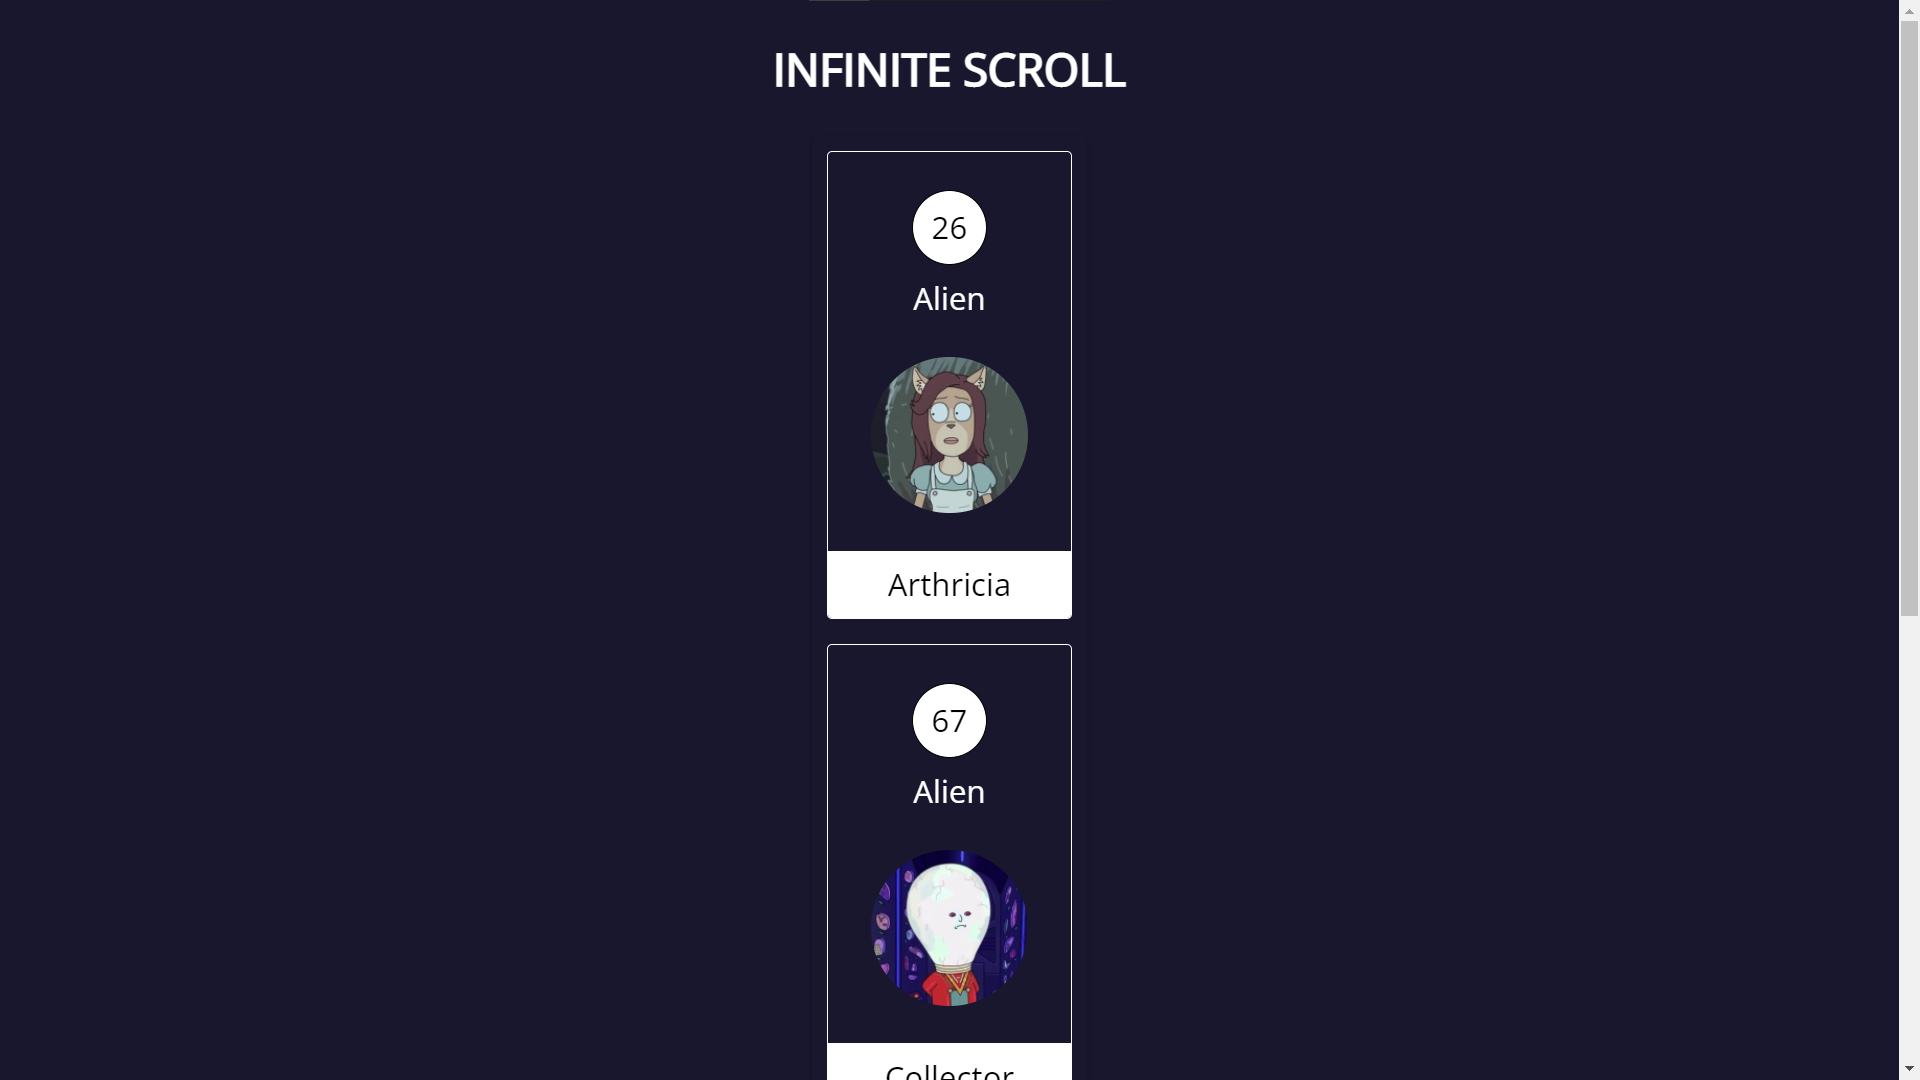
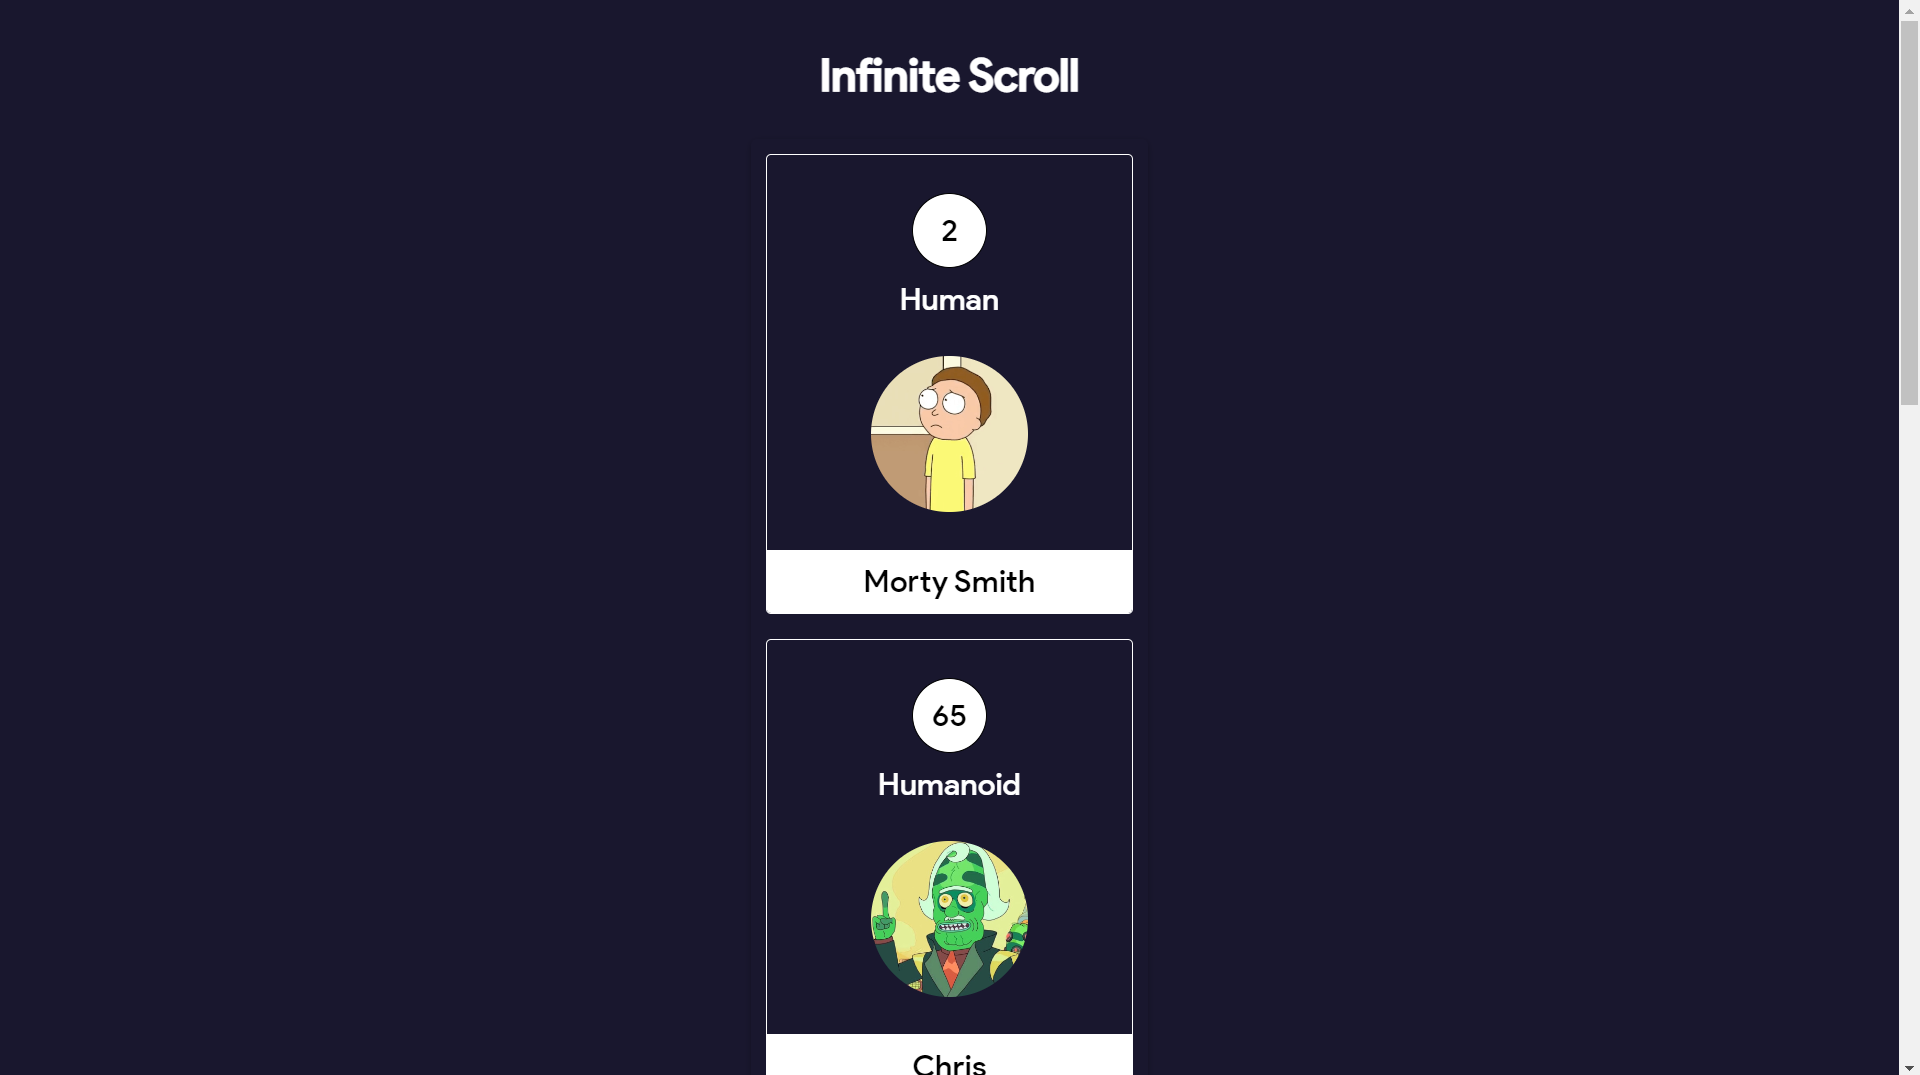
Wesbite & Project Updated

diff --git a/index.html b/index.html
@@ -308,26 +308,26 @@
         <img src="30DaysOfJavaScript/assets/43.png" alt="Getting Started with APIs" />
         <h4>Getting Started with APIs</h4>
       </a>
-    </div>
+    </div>-->
     <div class="item">
       <a target="_blank" href="44 - Infinite Scroll/index.html">
         <img src="30DaysOfJavaScript/assets/44.png" alt="Infinite Scroll" />
         <h4>Infinite Scroll</h4>
       </a>
     </div>
-    <div class="item">
+    <!--<div class="item">
       <a target="_blank" href="45 - Chatting App/client/index.html">
         <img src="30DaysOfJavaScript/assets/45.png" alt="Chatting App" />
         <h4>Chatting App</h4>
       </a>
-    </div>
+    </div>-->
     <div class="item">
       <a target="_blank" href="46 - Image Slider/index.html">
         <img src="30DaysOfJavaScript/assets/46.png" alt="Image Slider" />
         <h4>Image Slider</h4>
       </a>
     </div>
-    <div class="item">
+    <!--<div class="item">
       <a target="_blank" href="47 - Caesar Cipher/2_caesar_cipher.html">
         <img src="30DaysOfJavaScript/assets/47.png" alt="Caesar Cipher" />
         <h4>Caesar Cipher</h4>
@@ -338,14 +338,14 @@
         <img src="30DaysOfJavaScript/assets/48.png" alt="Attendance Table" />
         <h4>Attendance Table</h4>
       </a>
-    </div>
+    </div>-->
     <div class="item">
       <a target="_blank" href="49 - Content Placeholder/index.html">
         <img src="30DaysOfJavaScript/assets/49.png" alt="Content Placeholder" />
         <h4>Content Placeholder</h4>
       </a>
     </div>
-    <div class="item">
+    <!--<div class="item">
       <a target="_blank" href="50 - Country Detail\index.html">
         <img src="30DaysOfJavaScript/assets/50.png" alt="Country Detail" />
         <h4>Country Detail</h4>

diff --git a/44 - Infinite Scroll/index.html b/44 - Infinite Scroll/index.html
@@ -1,5 +1,6 @@
 <!DOCTYPE html>
 <html lang="en">
+
 <head>
   <meta charset="UTF-8">
   <meta http-equiv="X-UA-Compatible" content="IE=edge">
@@ -7,6 +8,7 @@
   <title>Infinite Scroll</title>
   <link rel="stylesheet" href="styles.css">
 </head>
+
 <body>
   <h1>Infinite Scroll</h1>
   <div class="container">
@@ -18,10 +20,14 @@
     </div>
   </div>
   <footer>
-    <p>
-      By <a href="https://github.com/alexventuraio">Alex Ventura</a>
-    </p>
+    <h3>&#x3c; &#47; &#x3e; with ❤ by
+      <a href="https://github.com/alexventuraio">Alex Ventura</a>
+      <br>
+      <a href="https://github.com/swapnilsparsh/30DaysOfJavaScript" target="_blank">#30DaysOfJavaScript
+      </a>
+    </h3>
   </footer>
   <script src="app.js"></script>
 </body>
+
 </html>

diff --git a/44 - Infinite Scroll/styles.css b/44 - Infinite Scroll/styles.css
@@ -1,14 +1,18 @@
-@import url('https://fonts.googleapis.com/css?family=Open+Sans&display=swap');
+@import url("https://fonts.googleapis.com/css?family=Open+Sans&display=swap");
 
 * {
-  margin: 0;
   padding: 0;
   box-sizing: border-box;
+  font-family: "sans";
 }
 
+@font-face {
+  font-family: "sans";
+  src: url(font/sans.ttf);
+}
 body {
   color: #fff;
-  font-family: 'Open Sans', sans-serif;
+  font-family: "sans";
   font-size: 12px;
   background-color: #19172e;
   display: flex;
@@ -32,7 +36,6 @@ h1 {
   font-size: 36px;
   margin: 30px;
   text-align: center;
-  text-transform: uppercase;
 }
 
 /* Items */
